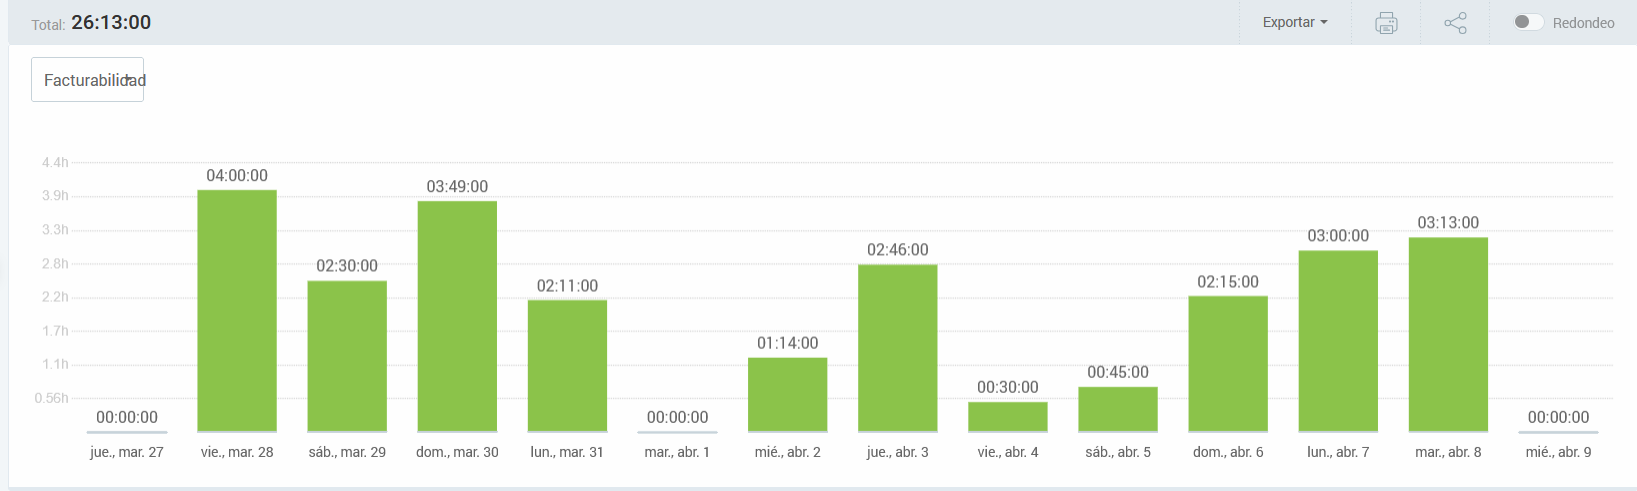
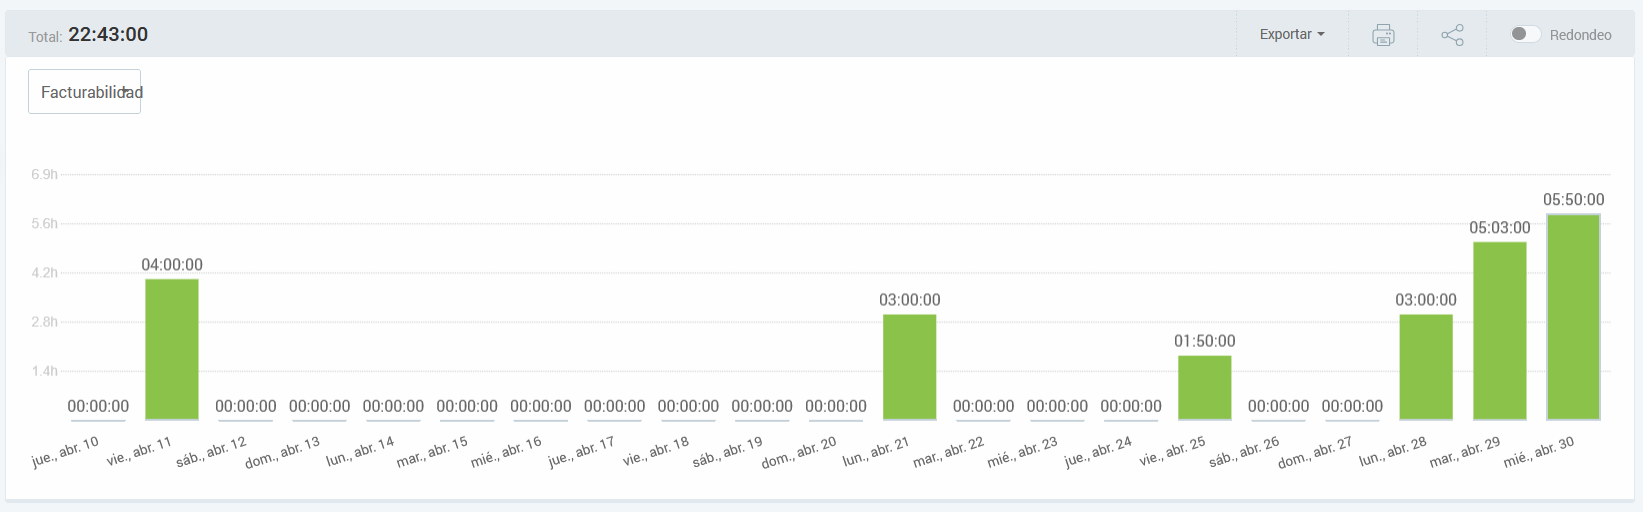
docs(PPL): Time report and fix AI_usage Rafel

diff --git a/docs/PPL/AIusage.md b/docs/PPL/AIusage.md
@@ -610,7 +610,7 @@ Listar los prompts que fueron más efectivos para completar las tareas:
 #### 1. Información General
 
 - **Nombre del programador:** Rafael Castillo Cebolla
-- **Sprint:** 3
+- **Sprint:** PPL
 - **Rol en el proyecto:** Jefe de backend, ayudante de documentación y analista y supervisor de calidad.
 
 #### 2. Tipo de Tareas en las que se Utilizó IA
@@ -618,7 +618,7 @@ Listar los prompts que fueron más efectivos para completar las tareas:
 - Generación de código (X)
 - Refactorización de código ()
 - Generación de documentación ( )
-- Asesoramiento técnico (X)
+- Asesoramiento técnico ()
 - Otro (especificar): --
 
 #### 3. Uso de IA en las Tareas
@@ -627,13 +627,12 @@ Para cada tarea en la que se usó IA, completar la siguiente tabla:
 
 | Tarea                                | Herramienta utilizada | Descripción del uso de IA                                                               |
 |--------------------------------------|-----------------------|-----------------------------------------------------------------------------------------|
-| Diseñar y revisar backend en general | ChatGPT               | Encontrar directrices e inspiración para resolver problemas de diseño e implementación. |
-| Automatizar tareas con Celery | ChatGPT               | Encontrar directrices e inspiración para resolver problemas de diseño e implementación. |
+| Arreglar bug bookings | ChatGPT               | Encontrar directrices e inspiración para resolver problemas de diseño e implementación. |
 
 
 #### 4. Impacto en Productividad
 
-- **Horas estimadas ahorradas en comparación con trabajo manual:** 4
+- **Horas estimadas ahorradas en comparación con trabajo manual:** 1
 - **Comparación con trabajo sin IA:** Más eficiente y seguro.
 
 #### 5. Prompts Utilizados

diff --git a/docs/Sprint_3/AIusage.md b/docs/Sprint_3/AIusage.md
@@ -620,7 +620,7 @@ Listar los prompts que fueron más efectivos para completar las tareas:
 #### 1. Información General
 
 - **Nombre del programador:** Rafael Castillo Cebolla
-- **Sprint:** PPL
+- **Sprint:** 3
 - **Rol en el proyecto:** Jefe de backend, ayudante de documentación y analista y supervisor de calidad.
 
 #### 2. Tipo de Tareas en las que se Utilizó IA
@@ -628,7 +628,7 @@ Listar los prompts que fueron más efectivos para completar las tareas:
 - Generación de código (X)
 - Refactorización de código ()
 - Generación de documentación ( )
-- Asesoramiento técnico ()
+- Asesoramiento técnico (X)
 - Otro (especificar): --
 
 #### 3. Uso de IA en las Tareas
@@ -637,12 +637,13 @@ Para cada tarea en la que se usó IA, completar la siguiente tabla:
 
 | Tarea                                | Herramienta utilizada | Descripción del uso de IA                                                               |
 |--------------------------------------|-----------------------|-----------------------------------------------------------------------------------------|
-| Arreglar bug bookings | ChatGPT               | Encontrar directrices e inspiración para resolver problemas de diseño e implementación. |
+| Diseñar y revisar backend en general | ChatGPT               | Encontrar directrices e inspiración para resolver problemas de diseño e implementación. |
+| Automatizar tareas con Celery | ChatGPT               | Encontrar directrices e inspiración para resolver problemas de diseño e implementación. |
 
 
 #### 4. Impacto en Productividad
 
-- **Horas estimadas ahorradas en comparación con trabajo manual:** 1
+- **Horas estimadas ahorradas en comparación con trabajo manual:** 4
 - **Comparación con trabajo sin IA:** Más eficiente y seguro.
 
 #### 5. Prompts Utilizados

diff --git a/docs/PPL/timeEffortReport.md b/docs/PPL/timeEffortReport.md
@@ -130,21 +130,17 @@
 
 ## Reporte de tiempo de Rafael Castillo Cebolla
 
-**Periodo:** 14/03/2025 - 26/03/2025
-**Total de tiempo trabajado:** 38:42:00
+**Periodo:** 10/04/2025 - 30/04/2025
+**Total de tiempo trabajado:** 22:43:00
 
 ### Proyecto Pawtel - Distribución del tiempo
 
 | Descripción | Duración |
 |-------------|---------|
-| QA | 08:55:00 |
-| Preparar entrega  | 01:03:00 |
-| Revisar frontend | 03:00:00  |
-| Booking Hold  | 03:42:00 |
-| Clases | 4:00:00 |
-| Tareas alta prioridad sprint 3 | 02:49:00 |
-| Reunión | 01:00:00 |
-| Hotfix | 02:46:00 |
+| QA | 05:50:00 |
+| Arreglar error backen  | 06:36:00 |
+| Pawtel points | 04:17:00  |
+| Clases  | 06:00:00 |
 
 ![grafico-de-tiempos](graficas/rafael.png)
 ---
